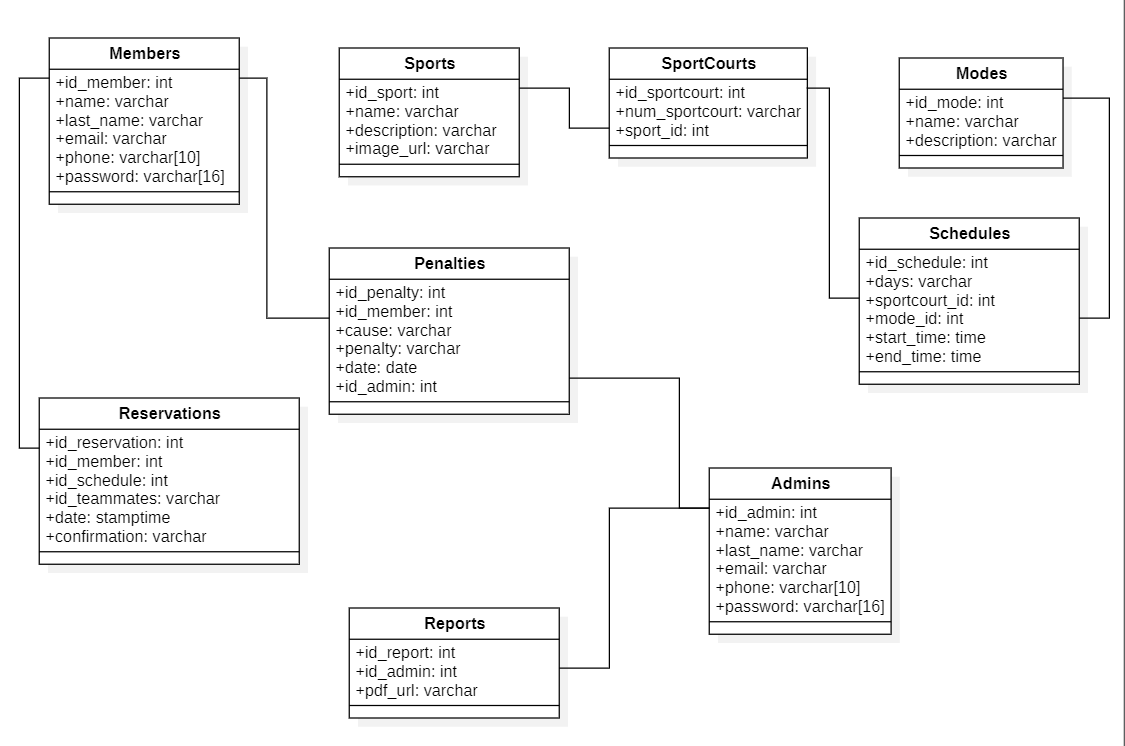
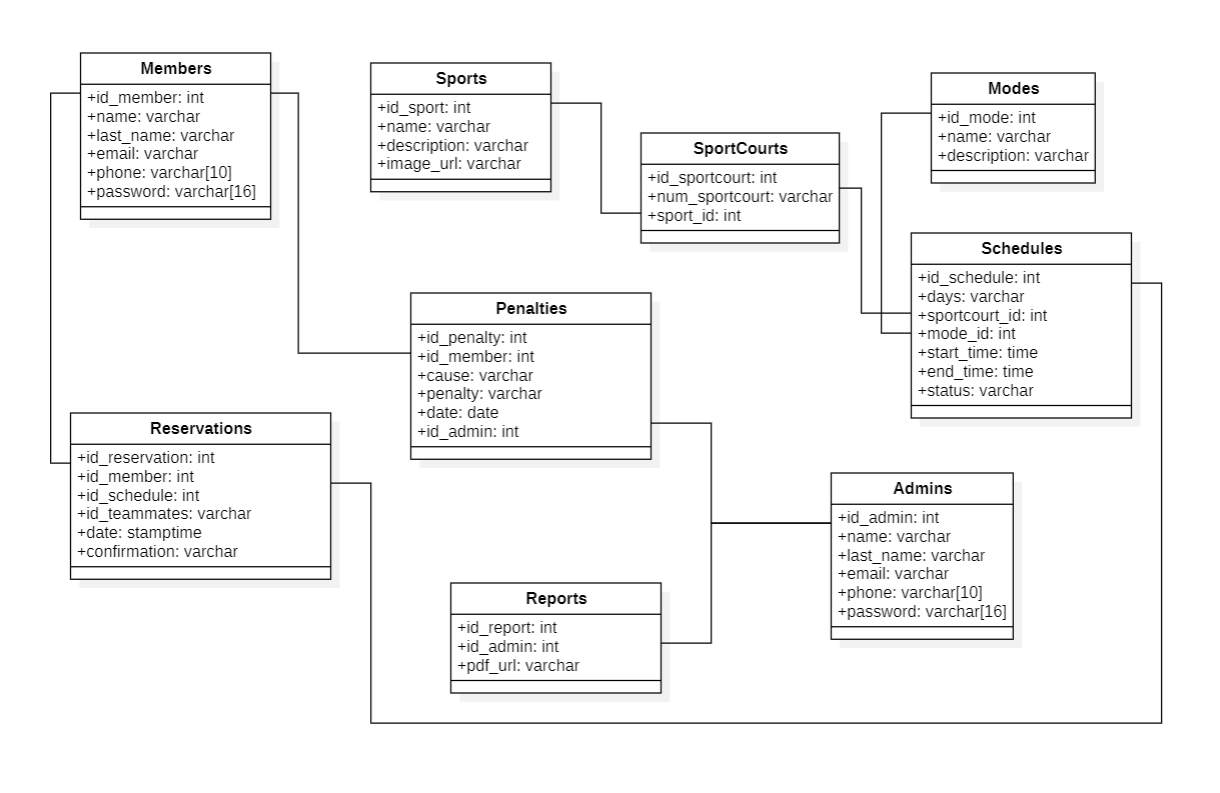
cambios hechos con respecto a la base de datos

diff --git a/database/migrations/2025_02_26_174038_create_schedules_table.php b/database/migrations/2025_02_26_174038_create_schedules_table.php
@@ -1,0 +1,35 @@
+<?php
+
+use Illuminate\Database\Migrations\Migration;
+use Illuminate\Database\Schema\Blueprint;
+use Illuminate\Support\Facades\Schema;
+
+return new class extends Migration
+{
+    /**
+     * Run the migrations.
+     */
+    public function up(): void
+    {
+        Schema::create('schedules', function (Blueprint $table) {
+            $table->id();
+            $table->string('days');
+            $table->unsignedBigInteger('sportcourt_id');
+            $table->foreign('sportcourt_id')->references('id')->on('sportcourts')->onDelete('cascade');
+            $table->unsignedBigInteger('mode_id');
+            $table->foreign('mode_id')->references('id')->on('modes')->onDelete('cascade');
+            $table->time('start_time');
+            $table->time('end_time');
+            $table->string('status');
+            $table->timestamps();
+        });
+    }
+
+    /**
+     * Reverse the migrations.
+     */
+    public function down(): void
+    {
+        Schema::dropIfExists('schedules');
+    }
+};

diff --git a/app/Models/schedules.php b/app/Models/schedules.php
@@ -1,0 +1,40 @@
+<?php
+
+namespace App\Models;
+
+use Illuminate\Database\Eloquent\Factories\HasFactory;
+use Illuminate\Database\Eloquent\Model;
+
+class schedules extends Model
+{
+    /** @use HasFactory<\Database\Factories\SchedulesFactory> */
+    use HasFactory;
+    protected $fillable = [
+        'days',
+        'sportcourt_id',
+        'mode_id',
+        'start_time',
+        'end_time',
+        'status',
+    ];
+    //Relacion con sportcourt
+    //Un horario pertenece a muchas canchas
+    public function sportcourt()
+    {
+        return $this->belongsTo(sportcourt::class);
+    }
+    //Relacion con mode
+    //Un horario pertenece a muchos modos
+    public function mode()
+    {
+        return $this->belongsTo(mode::class);
+    }
+    
+    //Relacion con reservation
+    //Un horario puede tener muchas reservas
+    public function reservations()
+    {
+        return $this->hasMany(reservation::class);
+    }
+
+}

diff --git a/app/Models/mode.php b/app/Models/mode.php
@@ -9,26 +9,15 @@ class mode extends Model
 {
     /** @use HasFactory<\Database\Factories\ModeFactory> */
     use HasFactory;
-    protected $fillable=[
+    protected $fillable = [
         'name',
-        'date',
-        'start_time',
-        'end_time', 
-        'sportcourt_id'
+        'description',
     ];
-    public function sport()
-    {
-        return $this->belongsTo(sportcourt::class);
-    }
-    // Relación uno a muchos con Mode
-    public function mode()
-    {
-        return $this->belongsTo(sportcourt::class);
-    }
-    //una modalidad puede tener muchas reservas
-    public function reservations()
-    {
-        return $this->hasMany(reservation::class);
-    }
 
+    //Relacion de foraneas con schedules
+    //Un mode puede tener muchos schedules
+    public function schedules()
+    {
+        return $this->hasMany(schedules::class);
+    }
 }

diff --git a/database/factories/SchedulesFactory.php b/database/factories/SchedulesFactory.php
@@ -1,0 +1,29 @@
+<?php
+
+namespace Database\Factories;
+
+use Illuminate\Database\Eloquent\Factories\Factory;
+
+/**
+ * @extends \Illuminate\Database\Eloquent\Factories\Factory<\App\Models\schedules>
+ */
+class SchedulesFactory extends Factory
+{
+    /**
+     * Define the model's default state.
+     *
+     * @return array<string, mixed>
+     */
+    public function definition(): array
+    {
+        return [
+            'days' => $this->faker->randomElement(["Lunes", "Martes", "Miercoles", "Jueves", "Viernes", "Sabado", "Domingo"]),
+            'sportcourt_id' => $this->faker->numberBetween(1, 3),
+            'mode_id' => $this->faker->numberBetween(1, 6),
+            'start_time' => $this->faker->time(),
+            'end_time' => $this->faker->time(),
+            'status' => $this->faker->randomElement(["Libre", "Ocupado"]),
+
+        ];
+    }
+}

diff --git a/database/factories/ReservationFactory.php b/database/factories/ReservationFactory.php
@@ -4,6 +4,7 @@ namespace Database\Factories;
 
 use App\Models\member;
 use App\Models\mode;
+use App\Models\schedules;
 use Illuminate\Database\Eloquent\Factories\Factory;
 
 /**
@@ -20,7 +21,7 @@ class ReservationFactory extends Factory
     {
         return [
             'member_id' => member::inRandomOrder()->first()?->id ?? null,
-            'modes_id' => mode::inRandomOrder()->first()?->id ?? null,
+            'schedule_id' => schedules::inRandomOrder()->first()?->id ?? null,
             'teammates' =>json_encode( member::inRandomOrder()->limit(rand(1, 2))->pluck('id')->toArray()), 
             'date' => $this->faker->date,
             'confirmation' => $this->faker->randomElement(["Confirmado", "Pendiente"]),

diff --git a/database/migrations/2025_02_26_184832_create_reservations_table.php b/database/migrations/2025_02_26_184832_create_reservations_table.php
@@ -15,8 +15,8 @@ return new class extends Migration
             $table->id();
             $table->unsignedBigInteger('member_id');
             $table->foreign('member_id')->references('id')->on('members')->onDelete('cascade');
-            $table->unsignedBigInteger('modes_id');
-            $table->foreign('modes_id')->references('id')->on('modes')->onDelete('cascade');
+            $table->unsignedBigInteger('schedule_id');
+            $table->foreign('schedule_id')->references('id')->on('schedules')->onDelete('cascade');
             $table->timestamp('date');
             $table->string('teammates');
             $table->string('confirmation');

diff --git a/database/factories/ModeFactory.php b/database/factories/ModeFactory.php
@@ -18,11 +18,8 @@ class ModeFactory extends Factory
     public function definition(): array
     {
         return [
-            'name' => $this->faker->randomElement(["Libre", "Doble"]),
-            'date' => $this->faker->date,
-            'start_time' => $this->faker->time,
-            'end_time' => $this->faker->time,
-            'sportcourt_id' => sportcourt::inRandomOrder()->first()?->id ?? null,
+            'name' => $this->faker->randomElement(["Libre", "Doble", "Single", "Clinica", "Extra single", " Clases particulares"]),
+            'description' => $this->faker->sentence(10),
         ];
     }
 }

diff --git a/database/migrations/2025_02_13_155309_create_penalties_table.php b/database/migrations/2025_02_13_155309_create_penalties_table.php
@@ -13,6 +13,13 @@ return new class extends Migration
     {
         Schema::create('penalties', function (Blueprint $table) {
             $table->id();
+            $table->unsignedBigInteger('member_id');
+            $table->foreign('member_id')->references('id')->on('members')->onDelete('cascade');
+            $table->string('cause');
+            $table->date('date');
+            $table->string('penalty');
+            $table->unsignedBigInteger('admin_id');
+            $table->foreign('admin_id')->references('id')->on('admins')->onDelete('cascade');
             $table->timestamps();
         });
     }

diff --git a/database/factories/PenaltyFactory.php b/database/factories/PenaltyFactory.php
@@ -2,6 +2,8 @@
 
 namespace Database\Factories;
 
+use App\Models\admin;
+use App\Models\member;
 use Illuminate\Database\Eloquent\Factories\Factory;
 
 /**
@@ -17,7 +19,12 @@ class PenaltyFactory extends Factory
     public function definition(): array
     {
         return [
-            //
+            'member_id' => member::inRandomOrder()->first()?->id ?? null,
+            'admin_id' => admin::inRandomOrder()->first()?->id ?? null,
+            'cause' => $this->faker->sentence(10),
+            'penalty' => $this->faker->sentence(10),
+            'date' => $this->faker->date(),
+
         ];
     }
 }

diff --git a/app/Models/penalty.php b/app/Models/penalty.php
@@ -9,4 +9,23 @@ class penalty extends Model
 {
     /** @use HasFactory<\Database\Factories\PenaltyFactory> */
     use HasFactory;
+
+    protected $fillable = [
+        'cause',
+        'penalty',
+        'date',
+        'member_id',
+        'admin_id',
+    ];
+
+    //Una penalización solo puede tener un miembro
+    public function member()
+    {
+        return $this->belongsTo(member::class);
+    }
+    //Una penalización solo puede tener un admin
+    public function admin()
+    {
+        return $this->belongsTo(admin::class);
+    }
 }

diff --git a/database/migrations/2025_02_14_155752_create_modes_table.php b/database/migrations/2025_02_14_155752_create_modes_table.php
@@ -14,11 +14,7 @@ return new class extends Migration
         Schema::create('modes', function (Blueprint $table) {
             $table->id();
             $table->string('name');
-            $table->date('date');
-            $table->time('start_time');
-            $table->time('end_time');
-            $table->unsignedBigInteger('sportcourt_id'); 
-            $table->foreign('sportcourt_id')->references('id')->on('sportcourts')->onDelete('cascade');    
+            $table->string('description');
             $table->timestamps();
         });
     }

diff --git a/app/Models/reservation.php b/app/Models/reservation.php
@@ -12,7 +12,7 @@ class reservation extends Model
 
     protected $fillable = [
         'member_id',
-        'modes_id',
+        'schedule_id',
         'teammates',
         'date',
         'confirmation',
@@ -33,4 +33,14 @@ class reservation extends Model
     {
         return $this->hasMany(member::class);
     }
+
+    //Relación con schedules
+    //una reservacion solo puede tener un horario
+    public function schedules()
+    {
+        return $this->belongsTo(schedules::class);
+    }
+    
+
+    
 }
